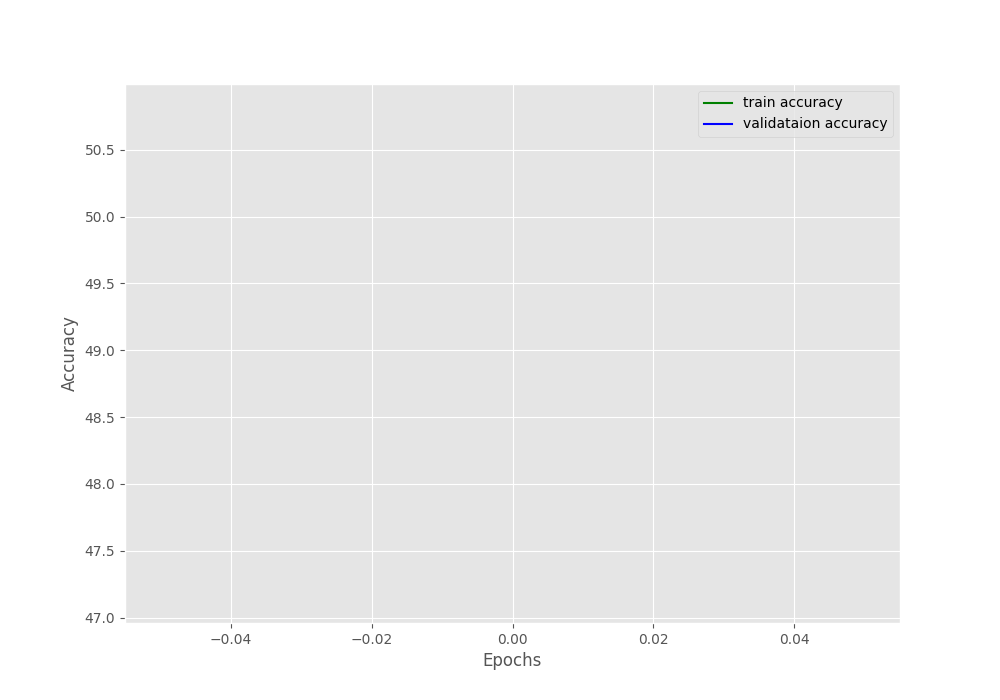
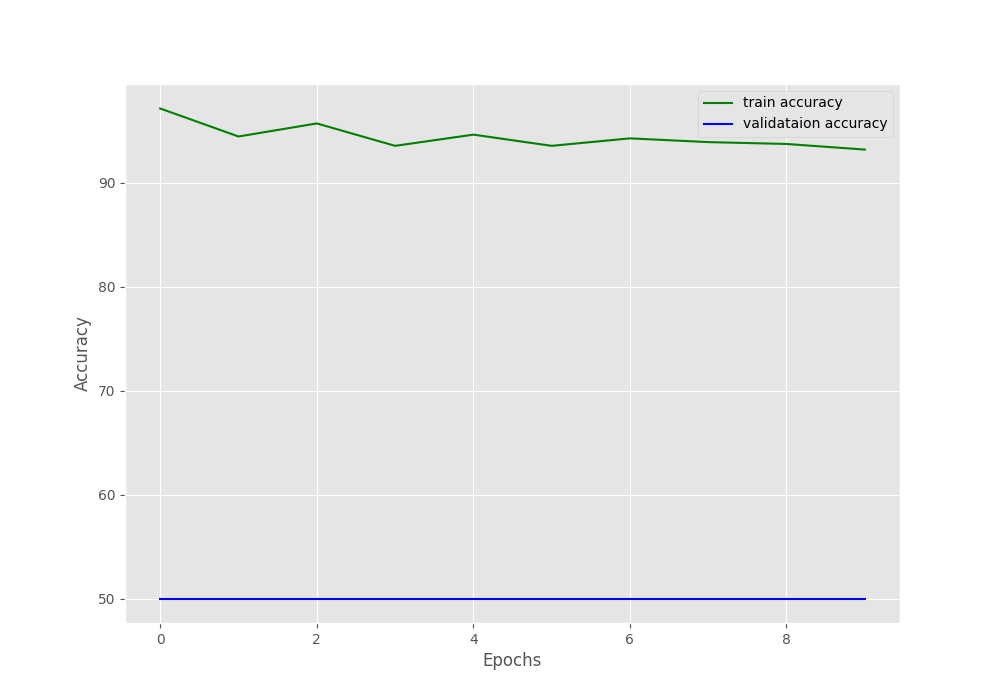
added mlflow support

diff --git a/train.py b/train.py
@@ -12,6 +12,49 @@ from utils import *
 from datasets import *
 from qat import quantized_model
 
+import mlflow
+
+# from torch.utils.tensorboard import SummaryWriter
+
+# # default `log_dir` is "runs" - we'll be more specific here
+# writer = SummaryWriter('runs/fashion_mnist_experiment_1')
+
+class trainer():
+
+    def __init__(self,model,epochs,gpu,root,save_path,batch_size,train_test_split,input_dims,lr,qat):
+        self.model = model
+        self.epochs = epochs
+        self.gpu = gpu
+        self.root = root
+        self.save_path = save_path
+        self.batch_size = batch_size
+        self.train_test_split = train_test_split
+        self.input_dims = input_dims
+        self.lr = lr
+        self.qat = qat
+    
+    def train(self):
+        pass
+
+    def train_qat(self):
+        pass
+
+    def trainfp16(self):
+        pass
+    def evaluate(self):
+        pass
+
+    def benchmark(self):
+        pass
+
+    def save_models(self):
+        pass
+
+    def log_mlflow_stats(self):
+        pass
+
+
+
 def start_training(model,epochs,train_loader,valid_loader,optimizer,criterion):
     train_loss, valid_loss = [], []
     train_acc, valid_acc = [], []
@@ -41,6 +84,10 @@ def start_training(model,epochs,train_loader,valid_loader,optimizer,criterion):
         save_model(epoch, model, criterion, False)
         save_plots(train_acc, valid_acc, train_loss, valid_loss, True)
         print('estimated time of completion:',(time.time()-epoch_time)*(epochs-epoch-1)/3600,' hrs ')
+
+
+        mlflow.log_metric("training loss", f"{train_epoch_loss:3f}", step=epoch)
+        mlflow.log_metric("training accuracy", f"{train_epoch_acc:3f}", step=epoch)
     # Save the trained model weights.
     save_model(epochs, model, criterion, True)
     # Save the loss and accuracy plots.
@@ -77,10 +124,10 @@ def main():
     
     
     # Total parameters and trainable parameters.
-    total_params = sum(p.numel() for p in model.parameters())
+    total_params = sum(p.squeeze().numel() for p in model.parameters())
     print(f"{total_params:,} total parameters.")
     total_trainable_params = sum(
-        p.numel() for p in model.parameters() if p.requires_grad)
+        p.squeeze().numel() for p in model.parameters() if p.requires_grad)
     print(f"{total_trainable_params:,} training parameters.")
 
     # Optimizer.
@@ -90,7 +137,34 @@ def main():
     # exp_lr_scheduler = lr_scheduler.StepLR(optimizer, step_size=70,gamma=0.01)
     # Lists to keep track of losses and accuracies.
     
-    start_training(model=model,epochs=epochs,train_loader=train_loader,valid_loader=valid_loader,optimizer=optimizer,criterion=criterion)
+
+
+    mlflow.set_tracking_uri("http://localhost:8080")
+    mlflow.set_experiment("test2")
+
+    model_name = "model_name_v3"
+    # with mlflow.start_run(run_name=model_name):
+
+    # mlflow.set_experiment("experiment name")
+    experiment = mlflow.get_experiment_by_name("test")
+
+    with mlflow.start_run(experiment_id=experiment.experiment_id,run_name=model_name):
+
+        start_training(model=model,epochs=epochs,train_loader=train_loader,valid_loader=valid_loader,optimizer=optimizer,criterion=criterion)
+        mlflow.log_param("model", model_name)
+        mlflow.log_metric('accuracy', 90)
+        mlflow.log_metric('recall_class_1', 90)
+        mlflow.log_metric('recall_class_0', 90)
+        mlflow.log_metric('f1_score_macro', 90)        
+        
+        # if "XGB" in model_name:
+        #     mlflow.xgboost.log_model(model, "model")
+        # else:
+        # mlflow.log_figure(fig1, "time_series_demand.png")
+        mlflow.pytorch.log_model(model, "model")  
+
+        
+
 
 
 if __name__ == "__main__":

diff --git a/utils.py b/utils.py
@@ -67,7 +67,7 @@ def amp_util_train(model,trainloader,criterion,optimizer):
         # outputs = model(image)
 
         with autocast(device_type='cuda', dtype=torch.float16):
-            outputs = model(input)
+            outputs = model(image)
             loss = criterion(outputs, labels)
 
         scaler.scale(loss).backward()
@@ -86,9 +86,9 @@ def amp_util_train(model,trainloader,criterion,optimizer):
         _, preds = torch.max(outputs.data, 1)
         train_running_correct += (preds == labels).sum().item()
         # Backpropagation
-        loss.backward()
+        # loss.backward()
         # Update the weights.
-        optimizer.step()
+        # optimizer.step()
     # Loss and accuracy for the complete epoch.
     epoch_loss = train_running_loss / counter
     epoch_acc = 100. * (train_running_correct / len(trainloader.dataset))
@@ -110,7 +110,16 @@ def util_train(model,trainloader,criterion,optimizer):
         labels = labels.to(DEVICE)
         optimizer.zero_grad()
         # Forward pass.
-        outputs = model(image)
+        # outputs = model(image)
+
+
+        with autocast(device_type='cuda', dtype=torch.float16):
+            outputs = model(image)
+            loss = criterion(outputs, labels)
+
+
+
+
         # Calculate the loss.
         loss = criterion(outputs, labels)
         train_running_loss += loss.item()

diff --git a/save.py b/save.py
@@ -36,6 +36,7 @@ def save_plots(train_acc, valid_acc, train_loss, valid_loss, pretrained,dest=os.
     plt.savefig(f"{dest}/efficient_net_acc{pretrained}.png")
     plt.close('all')
     # loss plots
+    
     plt.figure(figsize=(10, 7))
     plt.plot(
         train_loss, color='orange', linestyle='-', 

diff --git a/config.py b/config.py
@@ -19,8 +19,8 @@ NUM_WORKERS = 4
 VALID_SPLIT=0.2
 SAVE_EPOCH=15 
 IMAGE_DIMS=[224,224]    
-EPOCHS=160
+EPOCHS=10
 GRID_SIZE=[3,2]
 DEVICE = 'cuda:0'
 lr = 0.001
-QAT = True
+QAT = False
